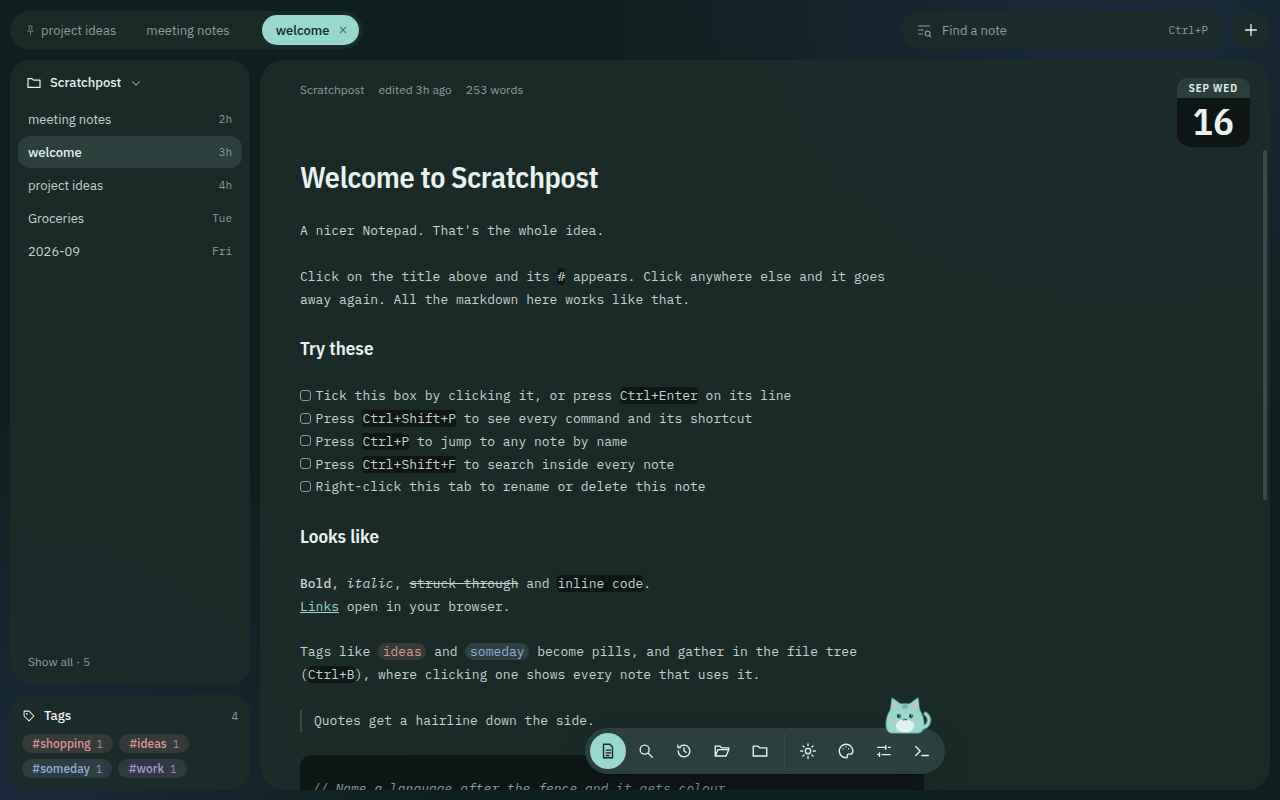
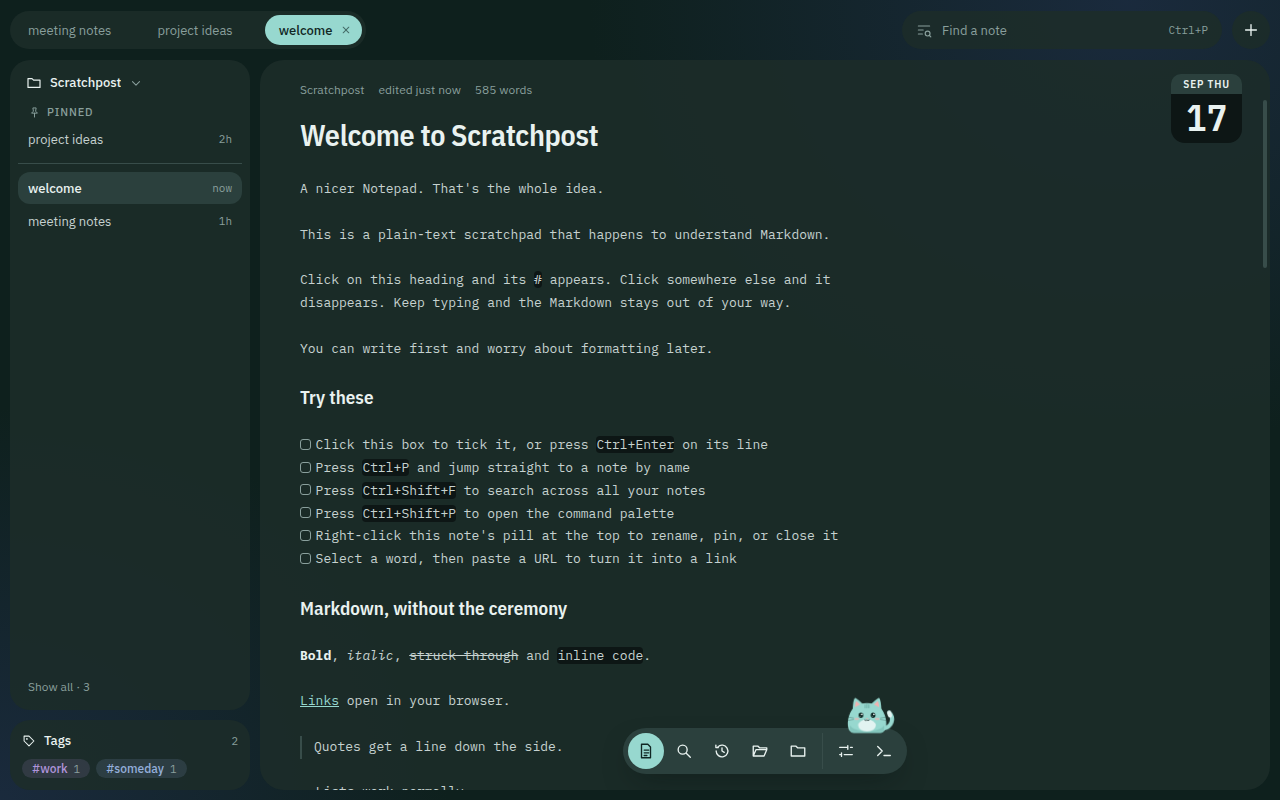
updated readme and images

diff --git a/README.md b/README.md
@@ -1,38 +1,40 @@
-# Scratchpost
-
-A small, single-window Markdown scratchpad for people who just want to write things down.
-
-Your notes are shown as tabs across the top, with the editor taking up the rest of the window. Markdown renders as you type, changes are saved automatically, and files can be opened from anywhere on your computer.
-
-![Scratchpost in dark mode](docs/screenshots/dark.png)
+<div align="center">
+  <img src="build/icon.png" alt="" width="120">
+  <h1>Scratchpost</h1>
+  <p><strong>A small, single-window Markdown scratchpad for people who just want to write things down.</strong></p>
+  <p>Notes as tabs across the top, the editor below. Markdown renders as you type, changes save themselves, and any file on your computer can be opened.</p>
+  <img src="docs/screenshots/dark.png" alt="Scratchpost in dark mode" width="920">
+</div>
 
 ## Why Scratchpost?
 
-There are plenty of good note-taking apps, but most of them are built around the idea of managing notes.
+There are plenty of good note-taking apps, but most of them are built around managing notes.
 
 Scratchpost isn't.
 
-It's meant for the notes you leave open for a few days, the text file you keep coming back to, or the bit of Markdown you don't want to turn into a whole project.
+It's for the note you leave open for a few days, the text file you keep coming back to, and the bit of Markdown you don't want to turn into a whole project.
 
-It works with normal `.md` and `.txt` files. There are no vaults, databases, plugins, accounts, or sync services. Just open a file and start writing.
+It works with normal `.md` and `.txt` files. No vaults, databases, plugins, accounts or sync services. Open a file and start writing.
 
-## Features
+## Writing in it
 
-* **Live Markdown** — headings, lists, checklists, links, quotes, and code are rendered directly in the editor. Markdown syntax is only shown on the line you're currently editing.
-* **Code highlighting** — fenced code blocks support JavaScript, TypeScript, JSON, Python, CSS, HTML, and shell.
-* **Automatic saving** — changes are saved as you type. New notes are created on the first keystroke and use the first line as their filename. Empty notes aren't saved.
-* **Normal files** — notes are stored in `Documents/Scratchpost` by default, or in a folder you choose. You can also open `.md` and `.txt` files from anywhere on disk.
-* **Open with / drag and drop** — files can be opened from your file manager, dropped onto the window, or opened through Scratchpost's menu.
-* **Quick search** — `Ctrl+P` searches your notes, `Ctrl+Shift+F` searches their contents, and `Ctrl+Shift+P` opens the command palette.
-* **Tags** — add `#tags` to a note to make it available from the tags panel and use tags to filter the note list.
-* **Labels** — `[labels]` are displayed as coloured pills while remaining part of the note itself.
-* **File watching** — changes made to a file outside Scratchpost are detected automatically. If you've also edited the note, Scratchpost lets you choose which version to keep.
-* **Version history** — notes keep a local history of previous versions. You can compare changes line-by-line and restore an older version. Restoring can be undone with `Ctrl+Z`.
-* **Pinning and archiving** — pinned notes stay at the left of the tab bar. Archived notes are moved into an `archive` folder.
-* **Themes** — choose light, dark, or system themes. Colours are generated from a single accent colour.
-* **Offline** — everything runs locally. Scratchpost makes no network requests.
+Headings, lists, checklists, links, quotes and code render straight in the editor, and the Markdown syntax only shows on the line you're working on. Fenced code blocks are highlighted for JavaScript, TypeScript, JSON, Python, CSS, HTML and shell.
+
+You don't have to type the syntax. `Ctrl+B` and `Ctrl+I` handle bold and italic, `Ctrl+1` to `Ctrl+3` set headings, and `Ctrl+Shift+8`, `9` and `7` turn whatever you're on into a bullet list, a checklist or a numbered list. Right-click in a note for the same things. If a shortcut sits wrong under your fingers, change it under Keyboard shortcuts in Settings.
+
+Two kinds of words get their own colour, taken from the word itself. A `#tag` collects notes: every tag in the folder shows up in the tags panel, and clicking one filters the list. A `[label]` stays where you wrote it, useful for marking a line as `[bug]` or `[idea]` without it meaning anything elsewhere. `Ctrl+L` inserts one from your own list of labels.
+
+## Keeping track of things
+
+New notes save themselves from the first keystroke and take their name from the first line. Notes you never typed in leave nothing behind.
+
+`Ctrl+P` jumps to a note by name, `Ctrl+Shift+F` searches inside all of them, and `Ctrl+Shift+P` opens the command palette, which lists everything the app can do along with its shortcut. Notes you keep coming back to can be pinned to the top of the list, whatever folder is open, and ones you're done with can be archived into an `archive` folder beside them.
+
+Every note also keeps a history on your computer. You can look through older versions, see which lines changed, and bring one back; `Ctrl+Z` undoes the restore if you change your mind.
 
 ![Version history](docs/screenshots/history.png)
+
+Because notes are ordinary files, other programs can change them. Scratchpost notices and reloads the note; if you'd been editing it too, it asks which version to keep. That makes syncing the folder between machines safe enough.
 
 ## Running from source
 
@@ -43,41 +45,15 @@ npm ci
 npm run dev
 ```
 
-The usual checks are also available:
-
-```bash
-npm run typecheck
-npm run lint
-npm run build
-```
+The usual checks are `npm run typecheck`, `npm run lint` and `npm run build`.
 
 ## Building installers
 
-Windows:
+`npm run dist:win` builds `dist/Scratchpost Setup <version>.exe`, a NSIS installer. Building it on Linux needs Wine.
 
-```bash
-npm run dist:win
-```
+`npm run dist:linux` builds an AppImage and a `.deb` in `dist/`.
 
-This produces:
-
-```text
-dist/Scratchpost Setup <version>.exe
-```
-
-The Windows build uses NSIS. Building it on Linux requires Wine.
-
-Linux:
-
-```bash
-npm run dist:linux
-```
-
-This produces an AppImage and a `.deb` package in `dist/`.
-
-The installers register Scratchpost as a handler for `.md` and `.txt` files, so they can be opened directly from your file manager.
-
-The installers are currently unsigned, so Windows SmartScreen will show a warning the first time you run the application.
+Both register Scratchpost for `.md` and `.txt` files, so notes can be opened from your file manager. They're unsigned, so Windows SmartScreen warns the first time you run one. To update an installed copy, run the new installer over it; your notes, settings and history are kept.
 
 ## Tech stack
 
@@ -88,4 +64,4 @@ The installers are currently unsigned, so Windows SmartScreen will show a warnin
 * [electron-builder](https://www.electron.build/) — application packaging
 * [chokidar](https://github.com/paulmillr/chokidar) — filesystem watching
 
-IBM Plex fonts are bundled with the application. Scratchpost does not need an internet connection to run.
+IBM Plex fonts are bundled with the application. Scratchpost makes no network requests at all, and everything it saves stays on your computer.

diff --git a/src/main/welcome.md b/src/main/welcome.md
@@ -2,11 +2,7 @@
 
 A nicer Notepad. That's the whole idea.
 
-This is a plain-text scratchpad that happens to understand Markdown.
-
-Click on this heading and its `#` appears. Click somewhere else and it disappears. Keep typing and the Markdown stays out of your way.
-
-You can write first and worry about formatting later.
+This is a plain-text scratchpad that happens to understand Markdown. Click on this heading and its `#` appears; click somewhere else and it goes away again. Keep typing and the Markdown stays out of your way, so you can write first and worry about formatting later.
 
 ## Try these
 
@@ -21,96 +17,65 @@ You can write first and worry about formatting later.
 
 ## Markdown, without the ceremony
 
-**Bold**, *italic*, ~~struck through~~ and `inline code`.
+**Bold**, *italic*, ~~struck through~~ and `inline code` all work as you'd expect, [links](https://commonmark.org/help/) open in your browser, and quotes get a line down the side:
 
-[Links](https://commonmark.org/help/) open in your browser.
+> Like this one.
 
-> Quotes get a line down the side.
+Lists work normally, nested ones too:
 
-* Lists work normally
+* Just keep typing
 
-  * Nested lists too
-  * Just keep typing
+  * and indent where you need to
 
 * [x] Checked things stay checked
 
-Turn any list into bullets, a checklist or a numbered list with `Ctrl+Shift+8`, `Ctrl+Shift+9` or `Ctrl+Shift+7`.
+You rarely have to type the syntax yourself. `Ctrl+B` and `Ctrl+I` cover bold and italic, `Ctrl+1` to `Ctrl+3` make headings, and `Ctrl+Shift+8`, `Ctrl+Shift+9` or `Ctrl+Shift+7` turn whatever you're on into a bullet list, a checklist or a numbered list.
 
 ### Code gets a little help
 
-Name a language after the fence and Scratchpost highlights it.
+Name a language after the fence and Scratchpost highlights it:
 
 ```js
 const answer = 42;
 console.log("hello, Scratchpost");
 ```
 
-It works with JavaScript, TypeScript, JSON, Python, CSS, HTML and shell.
+JavaScript, TypeScript, JSON, Python, CSS, HTML and shell are all included.
 
 ## Notes are just files
 
-A new note becomes a file when you start typing.
+A new note becomes a file the moment you start typing, and its first line becomes the filename, so there's nothing to fill in before you write. Press `F2` later if it deserves a better name. Open a note, never type in it, and nothing is left behind.
 
-Its first line becomes the filename, so you can start writing immediately. Press `F2` later if you want to give it a better name.
-
-If you open a new note and never type anything, nothing gets left behind.
-
-Notes live in `Documents/Scratchpost` by default. You can change that in Settings, open files from anywhere with `Ctrl+O`, or drag a `.md` or `.txt` file onto the window.
-
-There is no database to maintain and no special format to export. Your notes are just files.
+Notes live in `Documents/Scratchpost` unless you move them in Settings. `Ctrl+O` opens a file from anywhere, and dragging a `.md` or `.txt` file onto the window works too. There's no database to maintain and no special format to export from: your notes are just files.
 
 ## A few useful tricks
 
 ### Tags and labels
 
-Write #ideas and Scratchpost knows it's a tag. Tags gather notes together so you can quickly find everything related to one.
-
-Write [urgent] or [maybe] and it becomes a little coloured label inside the note.
-
-They look similar, but they do different jobs.
+Write #ideas and Scratchpost treats it as a tag, gathering every note that mentions it so you can find them together. Write [urgent] or [maybe] and you get a small coloured label that stays in this note and means nothing anywhere else. They look similar, but they do different jobs.
 
 ### History
 
-Every note keeps its own local history.
-
-Click the clock at the bottom to look back through older versions, compare changes, or restore one.
-
-Changed your mind? `Ctrl+Z` undoes a restore too.
+Every note quietly keeps its own history on this computer. Click the clock at the bottom to look through older versions and see which lines changed, then bring one back if you want it. Changed your mind? `Ctrl+Z` undoes a restore like any other edit.
 
 ### Tabs
 
-Close a tab and `Ctrl+Shift+T` brings it back.
-
-Pin a tab if you want it to stay at the left. Pinned tabs also survive **Close all tabs**.
-
-Right-click a note in the notes list and choose **Pin note to notes panel** to keep it at the top of the list, whichever folder is open.
-
-Archive a note when you're done with it and Scratchpost moves it into an `archive` folder instead of throwing it away.
+Close a tab and `Ctrl+Shift+T` brings it back. Pin one if you want it to stay at the left, safe from **Close all tabs**. A note you keep returning to can also be pinned to the top of the notes list, whichever folder is open: right-click it and choose **Pin note to notes panel**. When you're finished with a note, archive it and Scratchpost moves it into an `archive` folder instead of throwing it away.
 
 ### Working with other programs
 
-Scratchpost watches your notes on disk.
-
-Change a file somewhere else and Scratchpost reloads it. If you've also been editing the note, it'll ask which version you want to keep.
-
-That means syncing the folder between machines works too.
+Scratchpost watches your notes on disk. Change one somewhere else and it reloads here; if you'd been editing it too, you get to pick which version to keep. That also means syncing the folder between machines is fine.
 
 ## Make it yours
 
-Don't like a shortcut? Change it under **Keyboard shortcuts** in Settings.
+`Ctrl+,` opens Settings, where you can switch between light and dark, pick the colour everything else is built from, change the note text size and choose where new notes are kept. If a shortcut sits wrong under your fingers, **Keyboard shortcuts** will change it.
 
-Open Settings with `Ctrl+,` to switch between light and dark mode, change the theme colour, the scratch folder and other preferences.
+The cat is called Bean. Click for a purr, or use Settings to move Bean somewhere else, or turn Bean off if you'd rather write alone.
 
-The cat is called Bean. Click for a purr, and pick where Bean sits, or turn Bean off, in Settings.
-
-Scratchpost works offline and keeps everything on your computer.
+Everything runs offline and stays on your computer.
 
 ## One last thing
 
-You don't need to remember all of this.
-
-If you forget a shortcut, open `Ctrl+Shift+P` and search for what you want to do.
-
-And if you ever close this note, just use the command palette and choose **Open welcome note**.
+You don't need to remember any of this. If you forget a shortcut, press `Ctrl+Shift+P` and search for what you want to do, and if you ever close this note, the command palette has **Open welcome note**.
 
 Now go write something.
